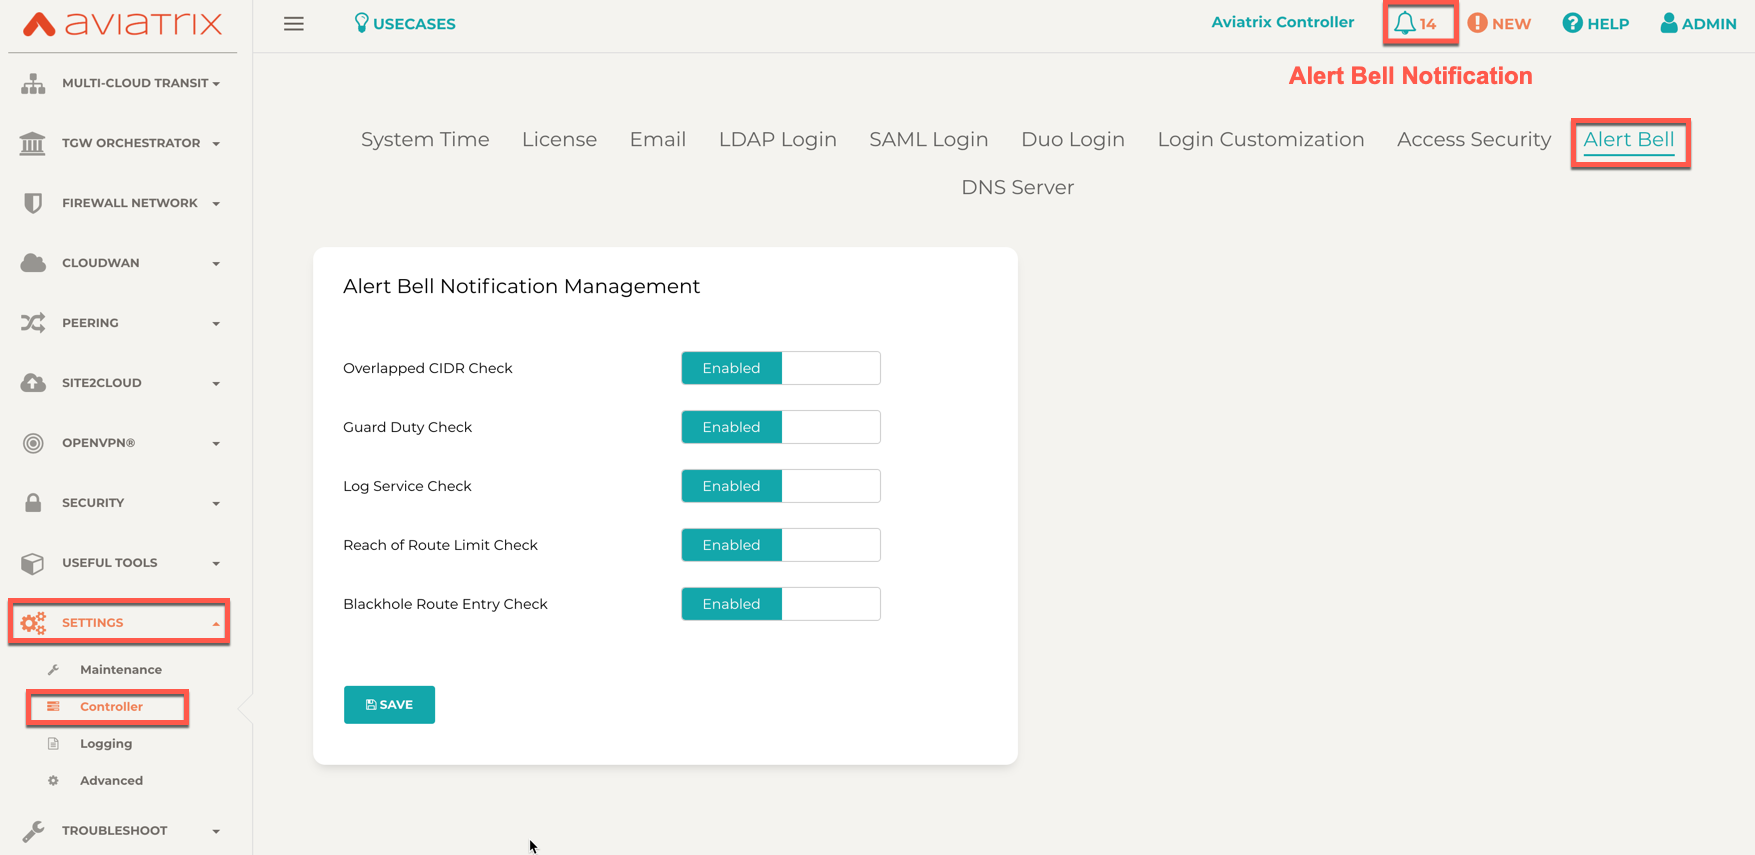
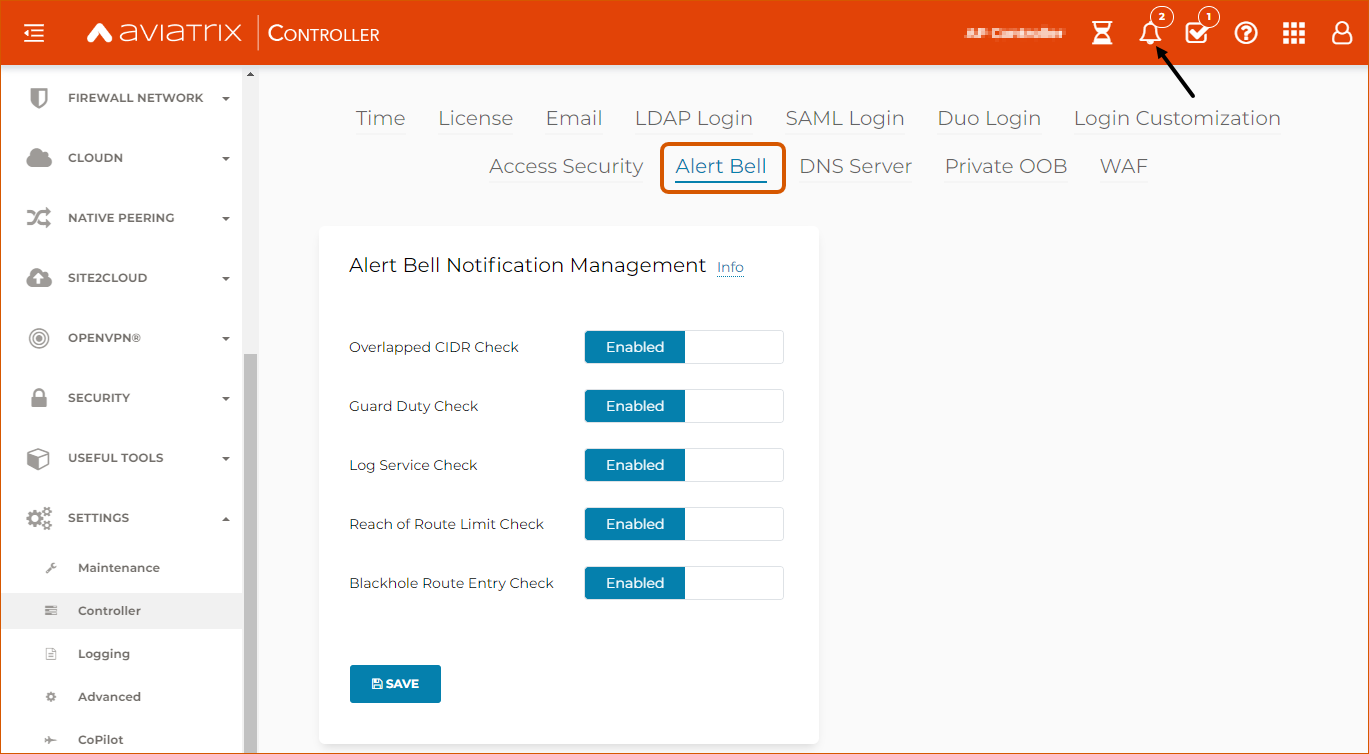
UI changes to "Email and Alert Notifications" doc
See AVX-22378, AVX-22327. The UI on this page has changed so that there are four fields for email notifications. I updated two images with the UI changes and the latest versions of the Controller (6.7.a).

diff --git a/HowTos/alert_and_email.rst b/HowTos/alert_and_email.rst
@@ -6,38 +6,44 @@
 Emails and Alert Configuration 
 ###################################
 
-The Aviatrix Controller sends alert emails for events such as:
+To help you manage important events in your account, the Aviatrix Controller sends alert emails for events such as:
 
  - Tunnel status change
  - Gateway status change
+- Account information changes
+- Other critical events, such as a full disk
 
-By default, the alert email is sent to the admin of the Controller. The email can be an individual email address or an email alias of a team. 
+Alert emails are sent to the admin of the Controller. To avoid having too many notification emails sent to one email address, you can set up multiple email accounts to make sure members of DevOps Engineering, IT, or other teams can also receive these emails. The email can be an individual email address or an email alias of a team. 
 
 .. important::
 
   Aviatrix strongly recommends you use an email alias to notify a group of people rather than using an individual email address. If only one person receives the notifications, important alerts could be missed.
 
-By default, the source email address is no-reply@aviatrix.com. 
+* By default, the source email address is no-reply@aviatrix.com. 
+* By default, the SMTP service is provided by a third-party, Sendgrid. Even though Aviatrix implements third-party risk monitoring, we are not responsible for Sendgrid controls. Aviatrix recommend customer to configure your own SMTP service. 
 
-By default, the SMTP service is provided by a third-party, Sendgrid. Even though Aviatrix implements third-party risk monitoring, we are not responsible for Sendgrid controls. Aviatrix recommend customer to configure your own SMTP service. 
+Selecting or Changing the Email Recipients of Alert Email Notifications
+----------------------------------------------------------------------------------------
 
-How to change alert email configuration
-----------------------------------------
+When you first launch your Aviatrix Controller for the first time or log in after an upgrade, please provide the addresses for at least four new email accounts or email aliases that can receive important notification emails.
 
-If you would like the alert messages to be sent to a different email, 
+1. Go to Settings > Controller > select the **Email** tab. 
+2. Use the four fields on the page to enter the **new** email addresses or aliases of team members who should receive these emails: 
 
-::
+    |email_notifications_page|
 
-  go to Settings -> Controller -> STATUS CHANGE EVENT EMAIL, 
-  fill in a new email address and click Save. 
+* Administrator email alias (named something like "aviatrix_administators@yourcompany.com")  - Set up this email account to receive important account and certification information.
+* Security Admin Email Alias (named something like "aviatrix_securitynotices@yourcompany.com")  - Set up this email account receive security and CVE (Common Vulnerabilities and Exposures) notification emails.
+Set up this email to receive system/tunnel status notification emails.
+* IT Admin Email Alias (named something like "aviatrix_criticalnotices@yourcompany.com")  - Set up this email account to receive field notices and critical notices.
+* IT Admin Email Alias (named something like "aviatrix_ statuschangenotifications@yourcompany.com")  - Set up this email to receive system/tunnel status notification emails.
 
-|change_alert_email|
+3. Click **Save** to save your changes.
 
-
-How to manage Alert Bell notification?
+Managing Alert Bell Notifications
 ------------------------------------------------------
 
-The Alert Bell notification can be managed under Settings -> Controller -> Alert Bell.
+The Alert Bell is in the top right of your Controller. This Bell provides notifications about the following features:
 
 By default, Alert Bell notification is enabled for the following features:
     1. **Overlapped CIDR Check** - Alert when BGP routes overlap in Site2Cloud.
@@ -48,55 +54,55 @@ By default, Alert Bell notification is enabled for the following features:
 
 |alert_bell_notify|
 
+To change these Alert Bell settings, navigate to Settings > Controller > select the **Alert Bell* tab.
 
-How to Change Email Notification Source
------------------------------------------
+
+Changing the Email Notification Source (AWS)
+----------------------------------------------------------
 
 The following example uses Amazon Simple Email Service (SES):
 Note that newly created SES accounts are placed in an "AWS SES Sandbox" and will not be able to send emails to unverified domains/addresses until they have been removed from the Sandbox: https://docs.aws.amazon.com/ses/latest/DeveloperGuide/request-production-access.html
 
-1.	Create SMTP Credentials
-    a.	Log into AWS Console
-    b.	Click “SES Email Service”
-    c.	Click “SMTP Settings”
-    d.	Click “Create My SMTP Credentials”
+Create SMTP Credentials:
+ 
+1. Log into the AWS Console.
+2. Click **SES Email Service**.
+3. Click **SMTP Settings**.
+4. Click **Create My SMTP Credentials**.
 
 |aws_ses|
 
-    e.	Click “Download Credentials” **as the password will not be shown again**
+ 5. Click **Download Credentials** **as the password will not be shown again**.
 
 
-2.	Verify an Email Address
-    a.	Log into Amazon SES Console. Go to SESHome/IdentityManagement/EmailAddresses
-    b.	Click “Verify a New Email Address”
-    c.	In “Verify a New Email Address” dialog, enter an email address you want to send messages from. Note this *must* be a valid email address
+Verify an Email Address: 
+1. Log into the Amazon SES Console. Go to SESHome/IdentityManagement/EmailAddresses.
+2. Click **Verify a New Email Address**.
+3. In Verify a New Email Address, enter an email address you want to send messages from. Note this *must* be a valid email address.
 
 |aws_verify_email|
 
-    d.	You will receive a verification email from AWS SES asking you to confirm that you are the owner of the email address. Click the verification link in the message.
+4. You will receive a verification email from AWS SES asking you to confirm that you are the owner of the email address. Click the verification link in the message.
     
     
-3.	Configure Aviatrix Controller to use AWS SMTP email server
-    a.	SMTP Server: email-smtp.us-east-1.amazonaws.com <note that this value is regional and may differ based on the region of your verified address(es). You can confirm this from AWS Console > Services > SES > SMTP Settings > Server Name>
-    b.	Port: 587 
-    c.	Sender Email: <From Step 2: your verified email>
-    d.	Sender Login: <From Step 1e: your SMTP Username>
-    e.	Sender Password: <From step 1e: your SMTP Password>
-    f.	Test Email: <From Step 2: your verified email>
-    g.	Protocol: TLS
-    h.	Click “Save”
+Configure the Aviatrix Controller to use AWS SMTP email server:
+1. SMTP Server: email-smtp.us-east-1.amazonaws.com <note that this value is regional and may differ based on the region of your verified address(es). You can confirm this from AWS Console > Services > SES > SMTP Settings > Server Name>
+2. Port: 587 
+3. Sender Email: <From Step 2: your verified email>
+4. Sender Login: <From Step 1e: your SMTP Username>
+5. Sender Password: <From step 1e: your SMTP Password>
+6. Test Email: <From Step 2: your verified email>
+7. Protocol: TLS
+8. Click **Save**.
 
-How to not send exception notification to Aviatrix
+Disabling Exception Notification Emails to Aviatrix
 -------------------------------------------------------------
 
-Software exception notification button gives an ability to customers to disable exception emails send to Aviatrix. To disable notification, go to Settings -> Controller -> Email, scroll down to find the software exception field and click Disable.
+Use the **Software exception notification** option to disable exception emails send to Aviatrix. To disable these notifications, go to Settings > Controller > Email, scroll down to find the software exception field, and click **Disable**.
  
 
 
-
-.. |change_alert_email| image:: alert_and_email_media/change_alert_email.png
-   :scale: 30%
-   
+ 
 .. |AwsEmailVerification| image:: alert_and_email_media/AwsEmailVerification.PNG
    :scale: 30%
    
@@ -109,7 +115,10 @@ Software exception notification button gives an ability to customers to disable 
 .. |aws_verify_email| image:: alert_and_email_media/aws_verify_email.png
    :scale: 30%
 
+.. |email_notifications_page| image:: alert_and_email_media/email_notifications_page.png
+   :scale: 60%
+
 .. |alert_bell_notify| image:: alert_and_email_media/alert_bell_notify.png
-   :scale: 30%
+   :scale: 60%
 
 .. disqus::
